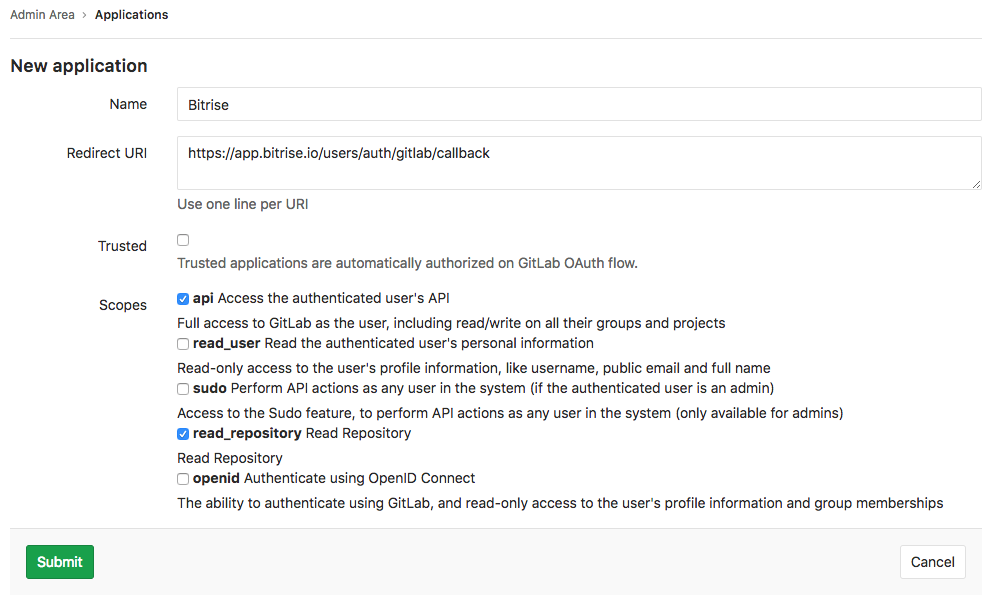
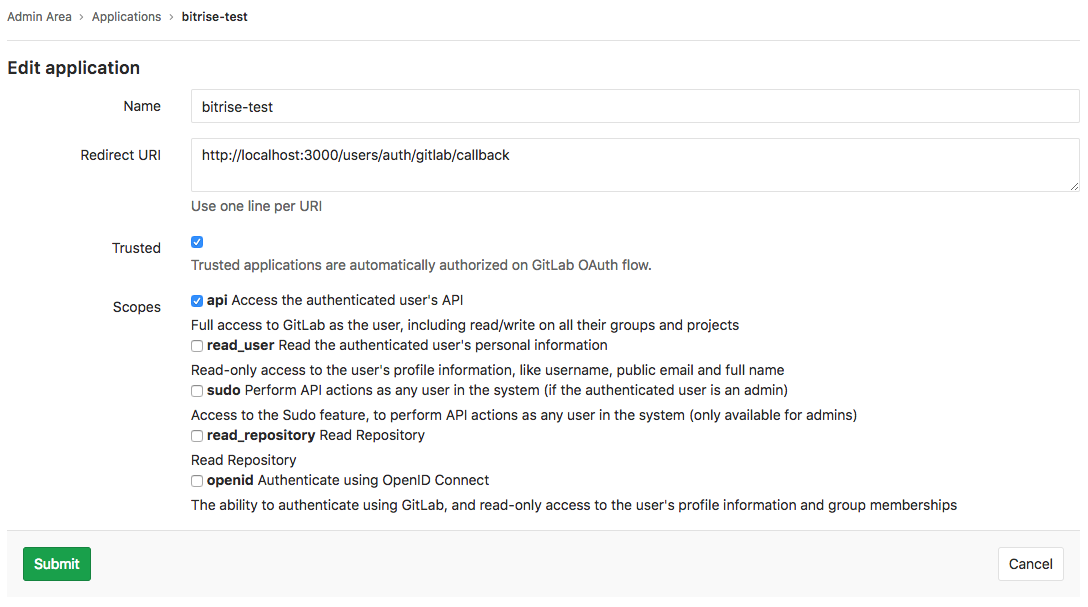
scope fix

diff --git a/docs/adding-a-new-app/self-hosted-gitlab.md b/docs/adding-a-new-app/self-hosted-gitlab.md
@@ -22,7 +22,7 @@ Setting up an app that is in a self-hosted GitLab repository is very simple: Bit
 
 1. In the `Redirect URI` field, enter https://app.bitrise.io/users/auth/gitlab/callback.
 
-1. In the `Scopes` menu, check __`api`__ and __`read_repository`__.
+1. In the `Scopes` menu, check __`api`__.
 
     ![New Application settings](/img/adding-a-new-app/gitlab-newapp-settings.png)
 
